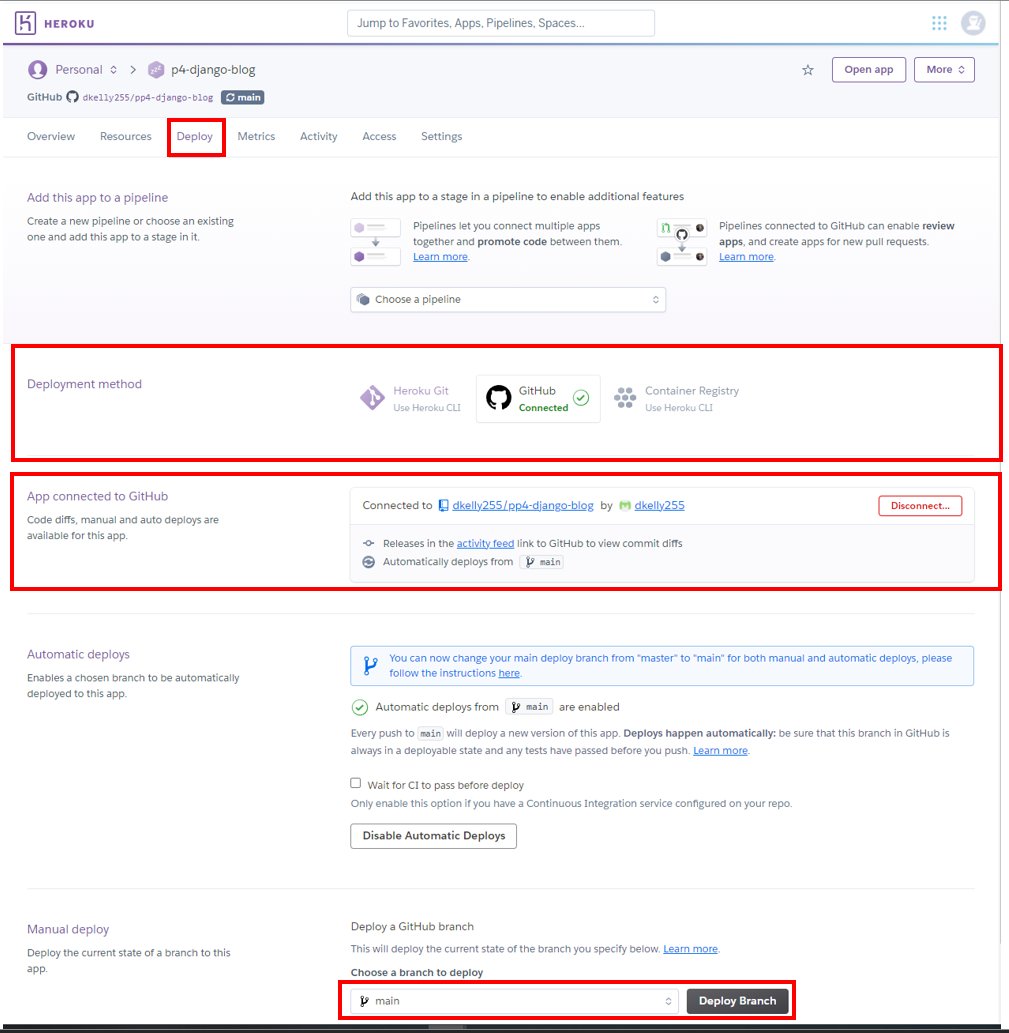
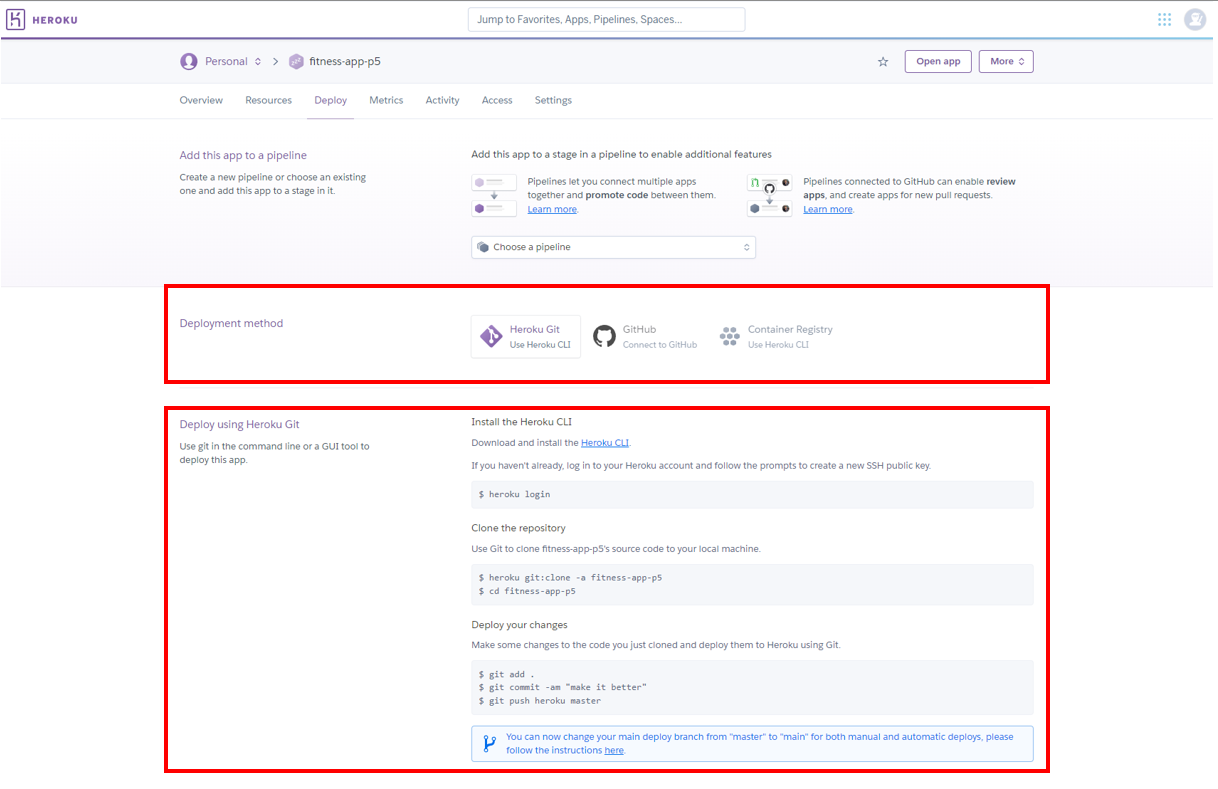
complete initial buildout of heroku & github deployment instructions

Changed region(s): [[0.0, 0.1825, 1.0, 1.0], [0.0, 0.0, 1.0, 0.1521], [0.0307, 0.1825, 0.3072, 0.2433]]

diff --git a/README.md b/README.md
@@ -727,7 +727,7 @@ There are no known unresolved bugs in this release of the application
 
 # Deployment
 
-The application is deployed via Heroku, and a link to the live deployment can be found by clicking [here](https://p4-django-blog.herokuapp.com/)
+The application is deployed via Heroku, and a link to the live deployment can be found by clicking [here](https://fitness-app-p5.herokuapp.com/)
 
 An extended list of detailed steps & instructions for deployment is covered in the section below:
 
@@ -748,7 +748,7 @@ The Steps for deployment to Heroku are as follows - Please note these steps are 
 
 ![New App creation](readme/deployment/heroku-newapp.png)
 
-- Choose a name for the application - I have chosen P4-Django-Blog but please note that the name must be unique.
+- Choose a name for the application - I have chosen Fitness-App-P5 but please note that the name must be unique.
 
 ![App name selection](readme/deployment/heroku-name.png)
 
@@ -772,15 +772,20 @@ Settings Tab:
 
 Deployment Tab: 
 
-- Select Github here, and then we  can confirm that we want to connect to Github & search for the equivalent Github repository name, followed by “Search”. 
+- Select `Heroku Git` here, and then we can install the Heroku CLI by following the instructions shown:
 
 ![Github Deployment](readme/deployment/heroku-deploy.png)
 
-- Next, click “connect” to link up the Heroku app to our Github repository code, and scroll down to see two options - for manual or automatic deployment
-- If you choose to enable automatic deployment then Heroku will rebuild the app every time you push a new change to your code in Github. 
-- Alternatively you can choose to  manually deploy using the "deploy branch" option
-- Finally, you will see the “App was successfully deployed” message  
-and a button for the deployed link. 
+- After making any changes or updates to the code pre-deployment - you can then deploy the changes using the code below:
+
+    ``` 
+    git add .
+    
+    git commit -m "commit message here"
+    
+    git push heroku main
+    ```
+
 
 ## Local Deployment
 
@@ -798,7 +803,18 @@ Note, please ensure that you install all of the required dependencies and packag
 pip3 install -r requirements.txt
 ```
 
-Also please ensure to have an environment file correctly setup (`env.py`) with the following variables - `DATABASE_URL` , `SECRET_KEY`, and `DEVELOPMENT`
+Also please ensure to have an environment file correctly setup (`env.py`) with the following variables - 
+
+```
+`DATABASE_URL` 
+`SECRET_KEY` 
+`DEVELOPMENT` 
+`STRIPE_PUBLIC_KEY`
+`STRIPE_SECRET_KEY`
+`STRIPE_WH_SECRET` 
+`EMAIL_HOST_PASS`
+`EMAIL_HOST_USER`
+```
 
 # Credits
 ## General
